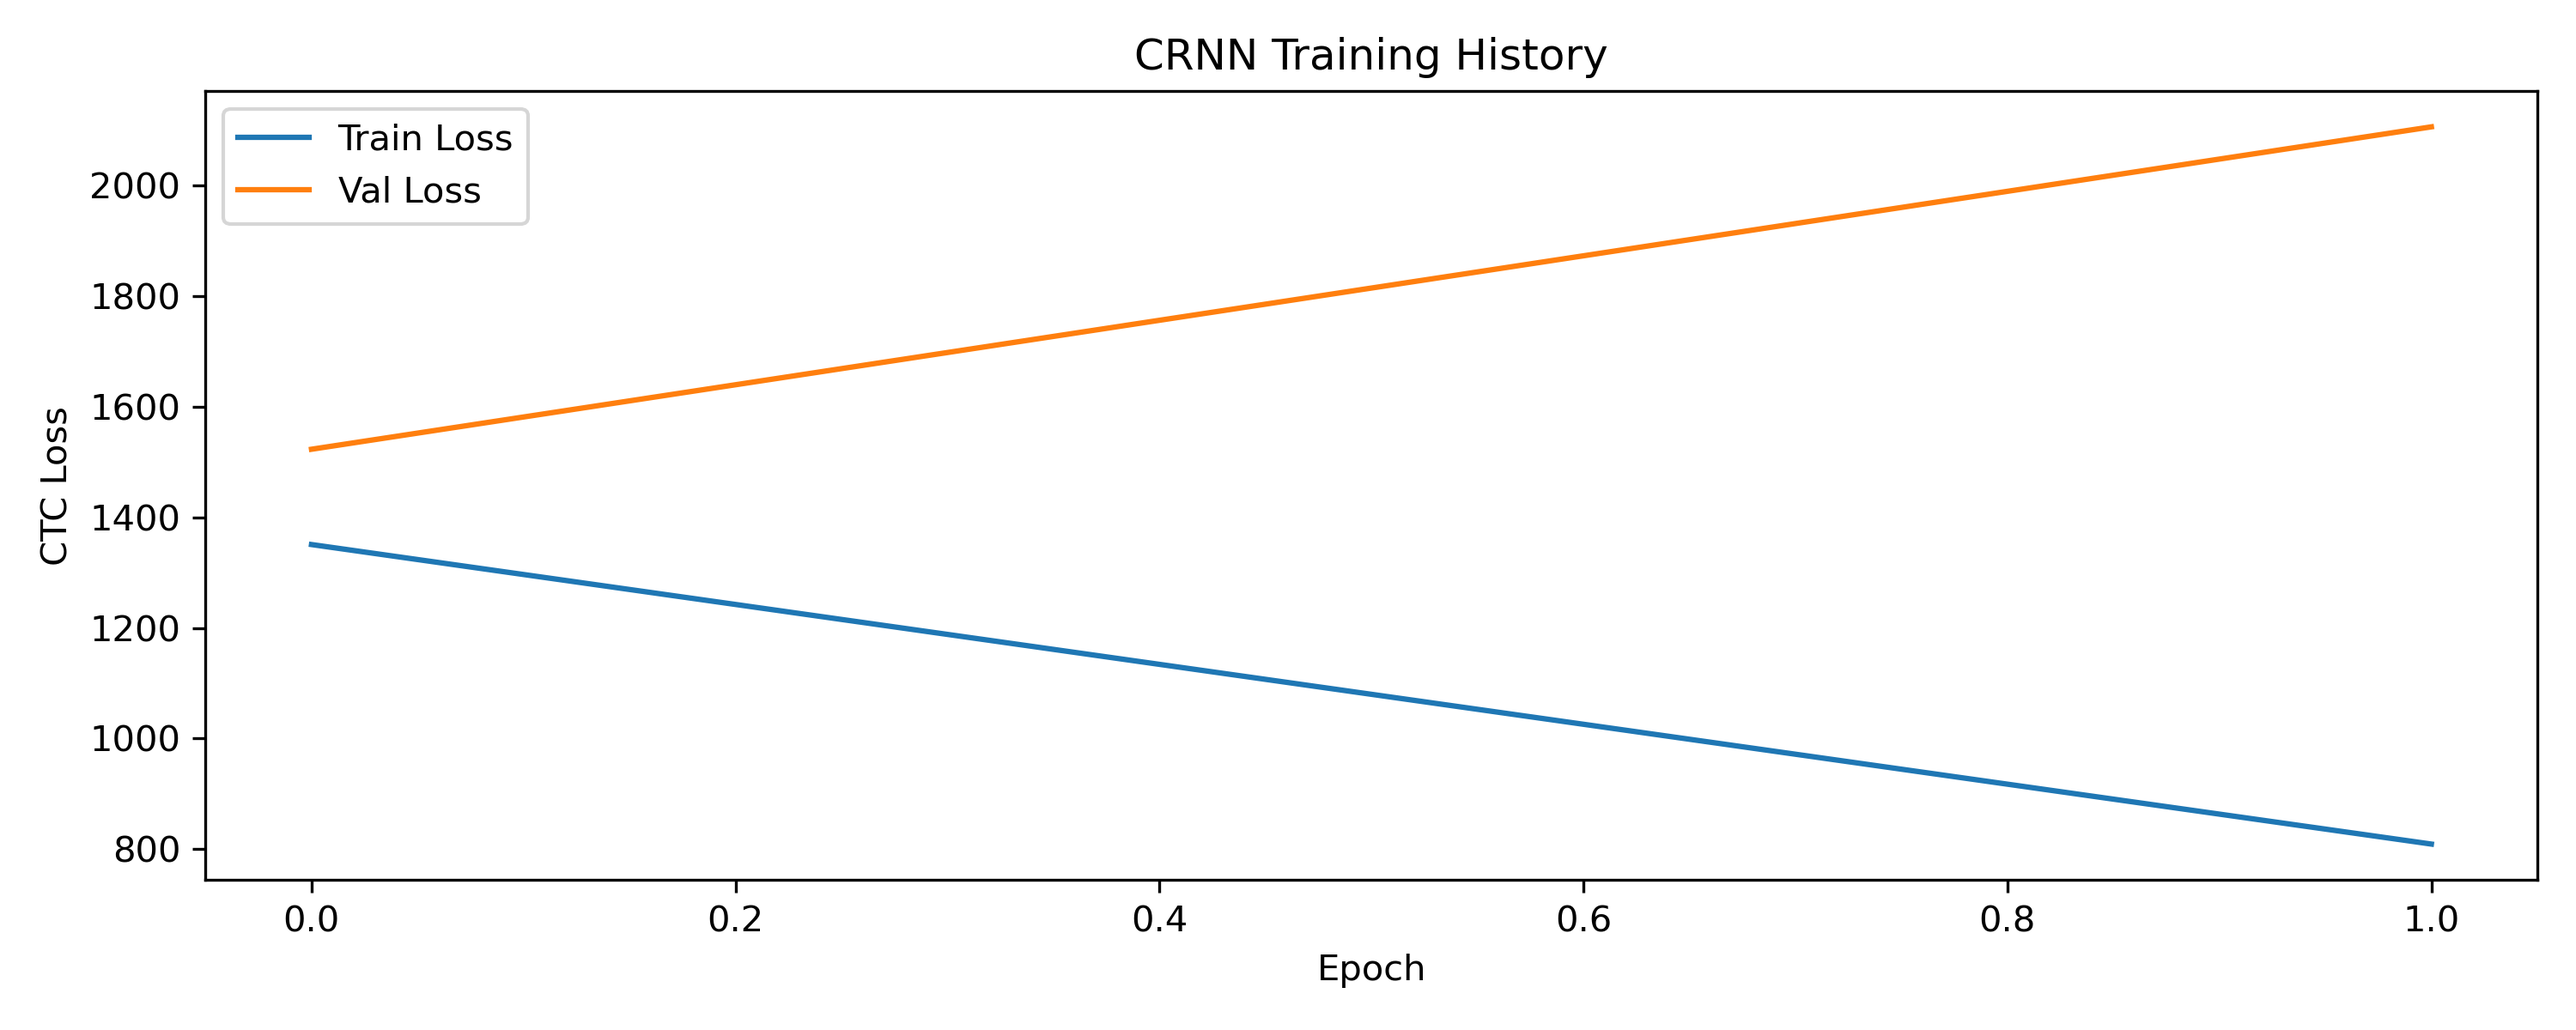
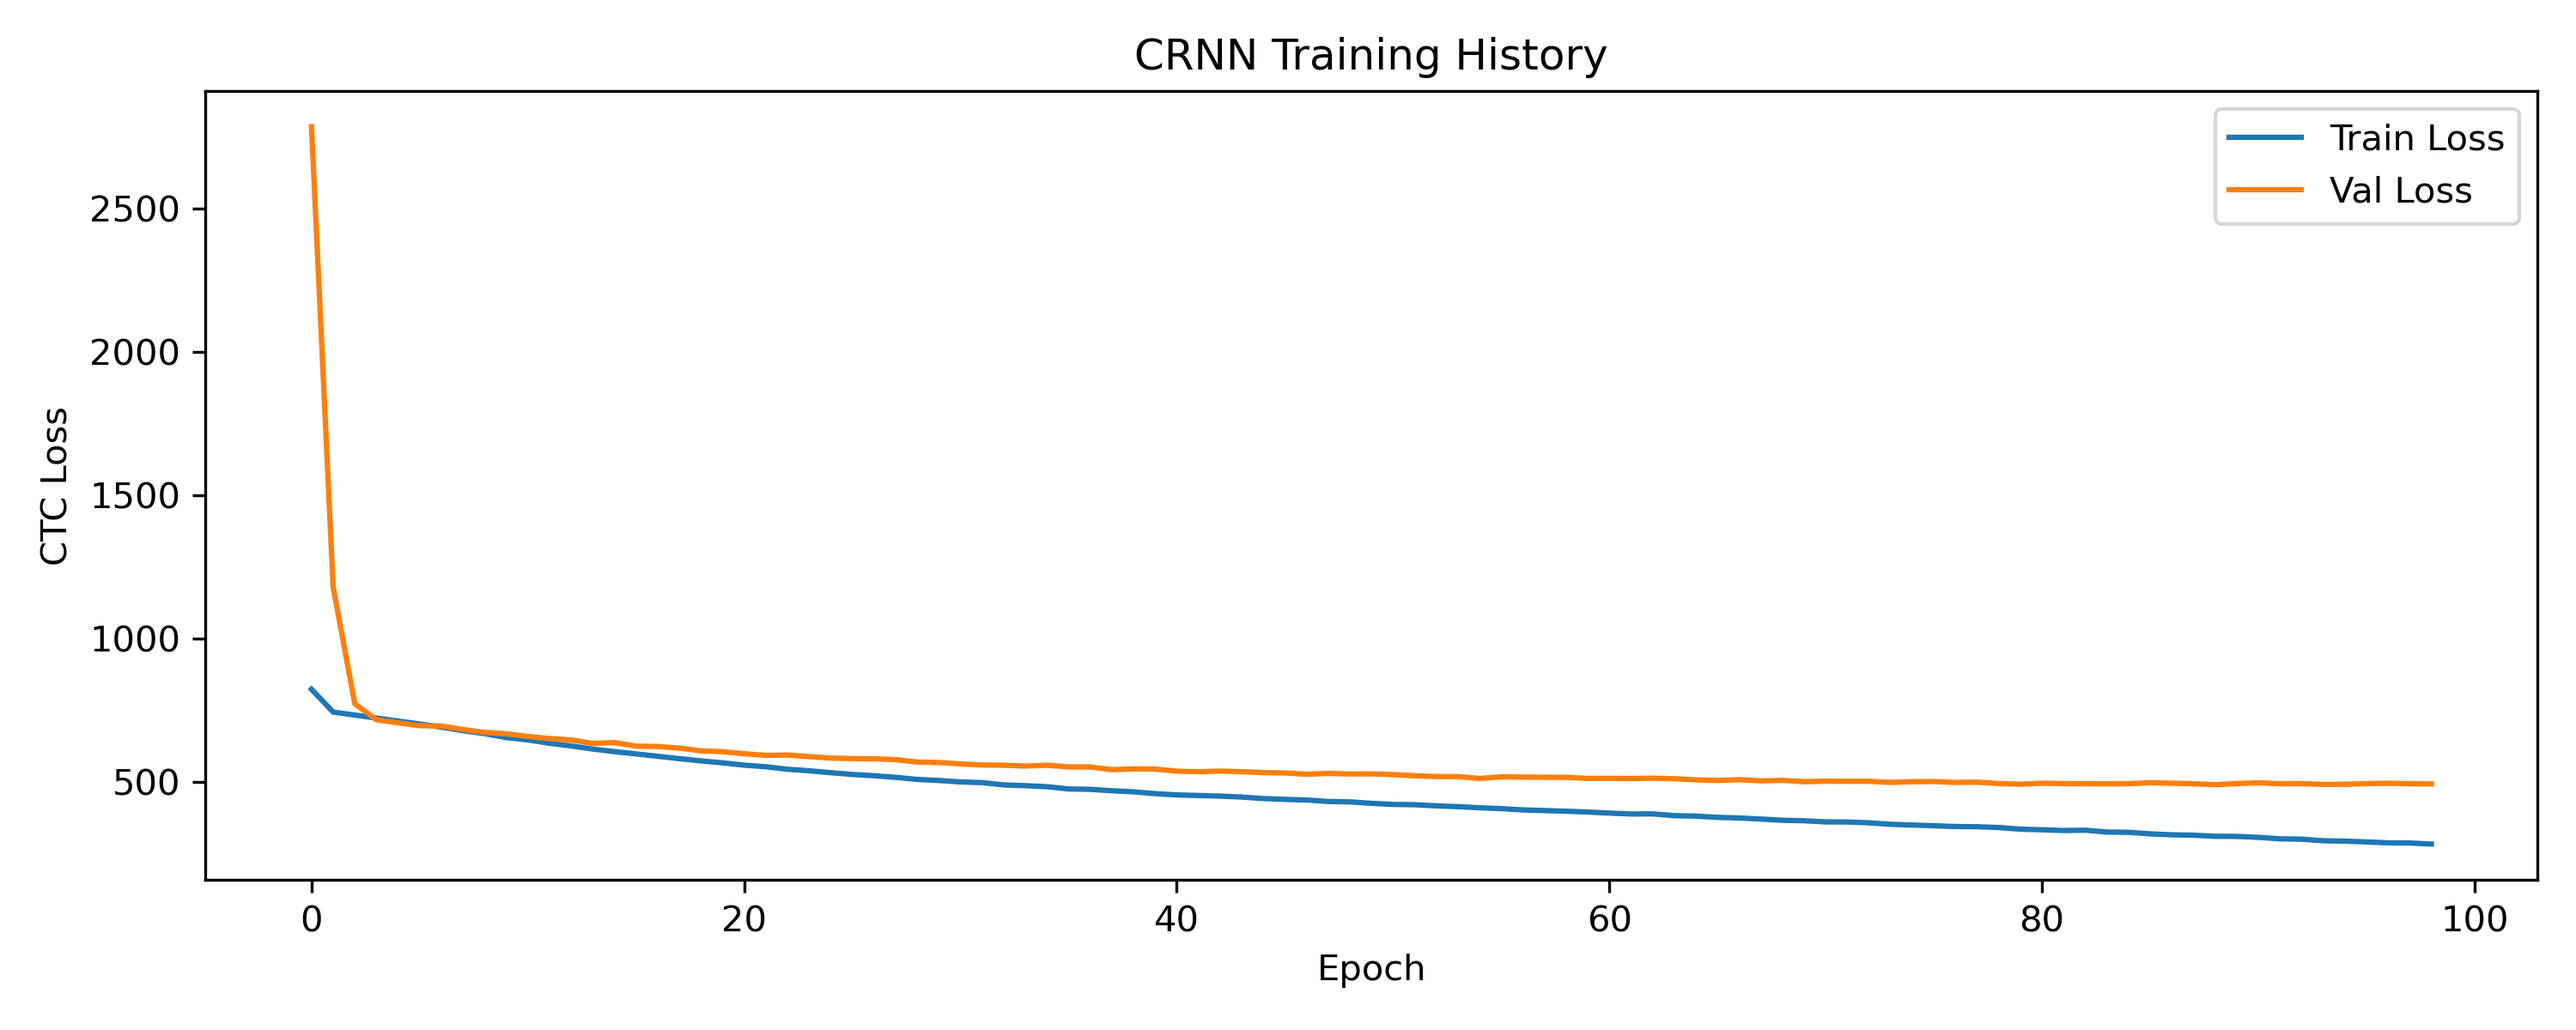
Trained CRNN Model

diff --git a/scripts/evaluate_crnn.py b/scripts/evaluate_crnn.py
@@ -25,7 +25,18 @@ from scripts.preprocess import preprocess_for_ocr
 def load_model(model_path: str = "models/crnn_epillid.h5"):
     # Import CTCLayer from ocr_crnn to ensure consistency
     from scripts.ocr_crnn import CTCLayer
-    return tf.keras.models.load_model(model_path, custom_objects={"CTCLayer": CTCLayer})
+    full_model = tf.keras.models.load_model(model_path, custom_objects={"CTCLayer": CTCLayer})
+    # Extract the prediction model (input: image, output: before CTC layer)
+    # Get the image input tensor (not the layer output)
+    image_input_tensor = full_model.input[0]  # First input is image_input
+    output_layer = full_model.get_layer('output').output
+    
+    # Build prediction model from image input to output (skip CTC and label input)
+    prediction_model = tf.keras.Model(
+        inputs=image_input_tensor,
+        outputs=output_layer
+    )
+    return prediction_model
 
 
 def levenshtein(a: str, b: str) -> int:
